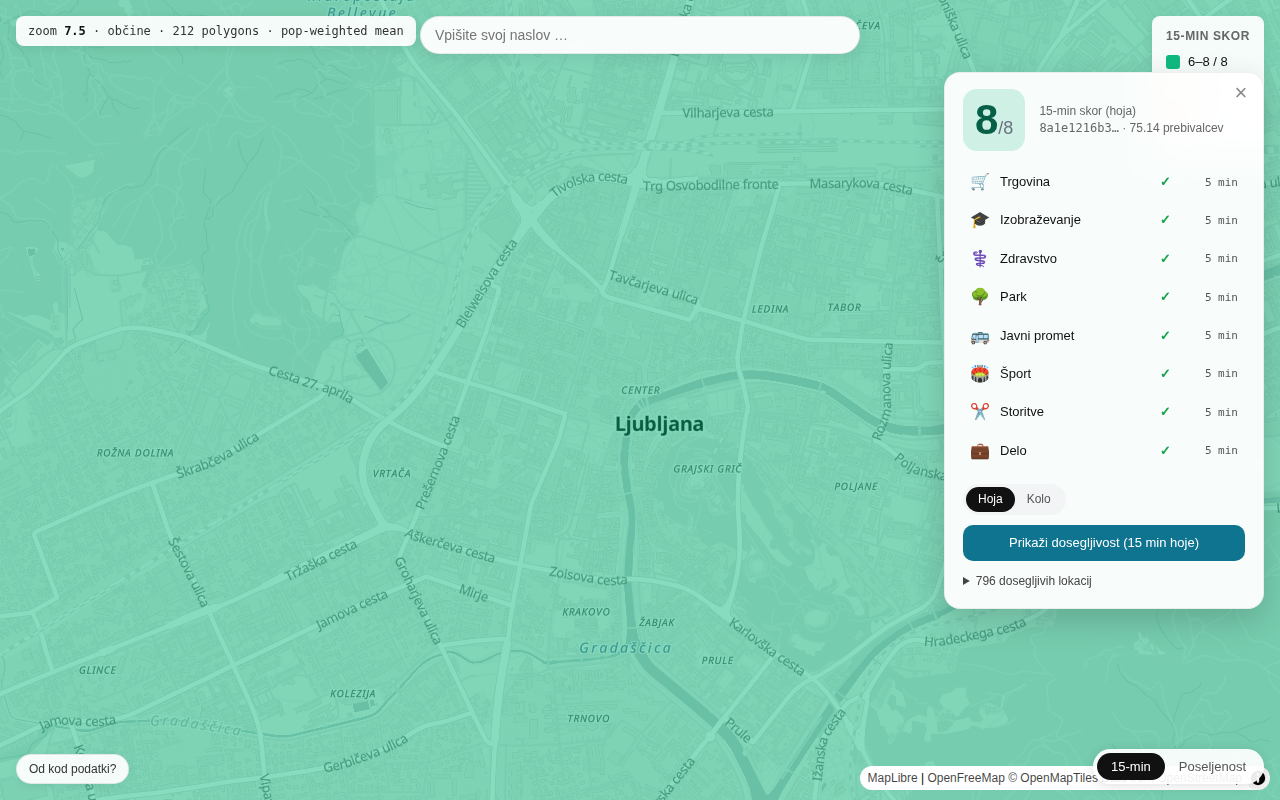
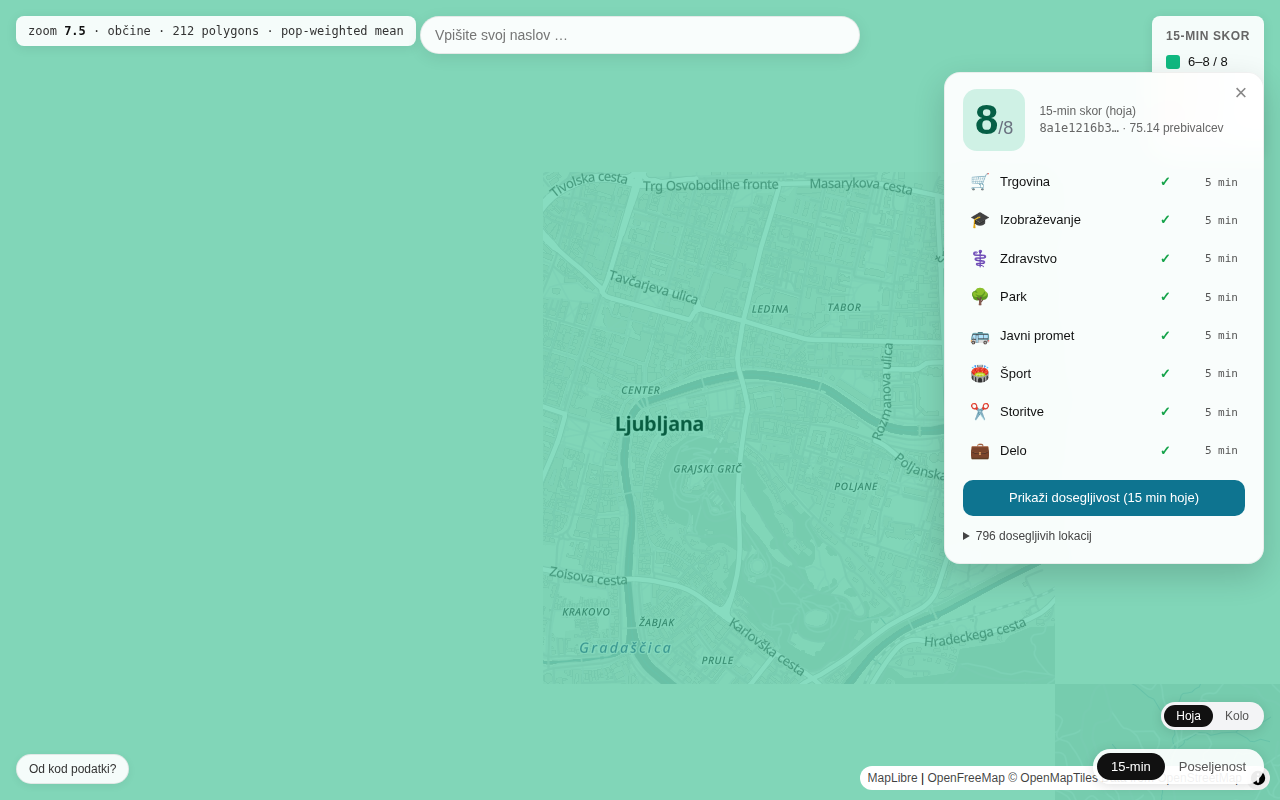
Updated fontend

diff --git a/frontend/components/Scorecard.tsx b/frontend/components/Scorecard.tsx
@@ -1,6 +1,6 @@
 "use client";
 
-import { useEffect, useState } from "react";
+import { useEffect, useMemo, useState } from "react";
 import * as h3 from "h3-js";
 import { cellScore, amenitiesForPoint, type CellScoreRow, type AmenityForPoint } from "@/lib/supabase";
 import { isochrone, route } from "@/lib/valhalla";
@@ -22,7 +22,6 @@ type Mode = "walk" | "bike";
 type Props = {
   h3id: string | null;
   mode: Mode;
-  onModeChange: (m: Mode) => void;
   onClose: () => void;
   onIsochrone: (poly: GeoJSON.Feature | null) => void;
   onRoute: (set: RouteSet | null) => void;
@@ -37,8 +36,39 @@ const EMPTY_AMENITIES: AmenityByMode = { walk: [], bike: [] };
 /** Cap on simultaneous routes per category click. */
 const MAX_PATHS_PER_CATEGORY = 25;
 
+// Server returns amenities whose own iso polygon contains the click point
+// ("amenities for which the user is reachable"). On a symmetric pedestrian
+// graph that's nearly equivalent to "amenities the user can reach"; on the
+// bicycle graph (one-way streets, slope-adjusted speed) the two diverge at
+// the polygon edges. Clip the visible set to the user-centered iso so what's
+// rendered matches the polygon the user sees. Holes are not handled —
+// Valhalla pedestrian/bike isos don't currently emit interior rings.
+function pointInRing(lng: number, lat: number, ring: number[][]): boolean {
+  let inside = false;
+  for (let i = 0, j = ring.length - 1; i < ring.length; j = i++) {
+    const [xi, yi] = ring[i];
+    const [xj, yj] = ring[j];
+    const intersect =
+      (yi > lat) !== (yj > lat) &&
+      lng < ((xj - xi) * (lat - yi)) / (yj - yi) + xi;
+    if (intersect) inside = !inside;
+  }
+  return inside;
+}
+
+function pointInFeature(lng: number, lat: number, f: GeoJSON.Feature): boolean {
+  const g = f.geometry;
+  if (g.type === "Polygon") {
+    return pointInRing(lng, lat, g.coordinates[0]);
+  }
+  if (g.type === "MultiPolygon") {
+    return g.coordinates.some((poly) => pointInRing(lng, lat, poly[0]));
+  }
+  return false;
+}
+
 export default function Scorecard({
-  h3id, mode, onModeChange, onClose, onIsochrone, onRoute, onAmenities,
+  h3id, mode, onClose, onIsochrone, onRoute, onAmenities,
 }: Props) {
   const [cell, setCell] = useState<CellScoreRow | null>(null);
   const [amenities, setAmenities] = useState<AmenityByMode>(EMPTY_AMENITIES);
@@ -102,11 +132,23 @@ export default function Scorecard({
     // eslint-disable-next-line react-hooks/exhaustive-deps
   }, [h3id]);
 
+  // Filter both amenity sets to the user-centered iso polygon so the dots,
+  // the <details> list, and the routes drawn on category-click stay in sync
+  // with what the polygon visually says is "reachable in 15 min".
+  const visibleAmenities = useMemo<AmenityByMode>(() => {
+    const filterOne = (set: AmenityForPoint[], iso: GeoJSON.Feature | null) =>
+      iso ? set.filter((a) => pointInFeature(a.lng, a.lat, iso)) : set;
+    return {
+      walk: filterOne(amenities.walk, isos.walk),
+      bike: filterOne(amenities.bike, isos.bike),
+    };
+  }, [amenities, isos]);
+
   // Mode toggle: re-publish active polygon + amenities + re-fetch active route.
   useEffect(() => {
     if (!h3id) return;
     onIsochrone(isoVisible ? isos[mode] : null);
-    onAmenities(isoVisible ? amenities[mode] : null);
+    onAmenities(isoVisible ? visibleAmenities[mode] : null);
     if (activeCat) void fetchRoutesForCategory(activeCat);
     // eslint-disable-next-line react-hooks/exhaustive-deps
   }, [mode]);
@@ -114,9 +156,9 @@ export default function Scorecard({
   // Whenever isos / visibility / amenity sets land, sync to parent.
   useEffect(() => {
     onIsochrone(isoVisible ? isos[mode] : null);
-    onAmenities(isoVisible ? amenities[mode] : null);
+    onAmenities(isoVisible ? visibleAmenities[mode] : null);
     // eslint-disable-next-line react-hooks/exhaustive-deps
-  }, [isos, isoVisible, amenities]);
+  }, [isos, isoVisible, visibleAmenities]);
 
   const toggleIsochrones = async () => {
     if (!h3id) return;
@@ -144,7 +186,7 @@ export default function Scorecard({
 
   const fetchRoutesForCategory = async (cat: CategoryId) => {
     if (!h3id) return;
-    const activeAmenities = amenities[mode];
+    const activeAmenities = visibleAmenities[mode];
     if (activeAmenities.length === 0) return;
     const targets = activeAmenities.filter((a) => a.category === cat).slice(0, MAX_PATHS_PER_CATEGORY);
     if (targets.length === 0) return;
@@ -201,7 +243,7 @@ export default function Scorecard({
       : `Prikaži dosegljivost ${isoLabel}`;
   const displayScore = cell ? (mode === "bike" ? cell.bike_score : cell.walk_score) : 0;
   const displayBucket = bucketFor(displayScore);
-  const activeAmenities = amenities[mode];
+  const activeAmenities = visibleAmenities[mode];
 
   return (
     <aside className="scorecard" role="dialog" aria-label="Skor celice">
@@ -253,25 +295,6 @@ export default function Scorecard({
                 </button>
               );
             })}
-          </div>
-
-          <div className="mode-toggle" role="group" aria-label="Način">
-            <button
-              type="button"
-              className={mode === "walk" ? "active" : ""}
-              onClick={() => onModeChange("walk")}
-              aria-pressed={mode === "walk"}
-            >
-              Hoja
-            </button>
-            <button
-              type="button"
-              className={mode === "bike" ? "active" : ""}
-              onClick={() => onModeChange("bike")}
-              aria-pressed={mode === "bike"}
-            >
-              Kolo
-            </button>
           </div>
 
           <button

diff --git a/frontend/components/Map.tsx b/frontend/components/Map.tsx
@@ -9,15 +9,16 @@ import { GeoJsonLayer, PathLayer, TextLayer, ScatterplotLayer } from "@deck.gl/l
 import { HeatmapLayer } from "@deck.gl/aggregation-layers";
 import { H3HexagonLayer } from "@deck.gl/geo-layers";
 import * as h3 from "h3-js";
-import Scorecard, { type RouteSet } from "@/components/Scorecard";
+import Scorecard, { type RouteSet, type RoutePath } from "@/components/Scorecard";
 import AddressSearch from "@/components/AddressSearch";
 import IzvorPodatkov from "@/components/IzvorPodatkov";
 import { categoryById } from "@/lib/categories";
 import type { AmenityForPoint } from "@/lib/supabase";
 
-// All category paths use this single contrast color: slate-900 reads cleanly
-// on every score-bucket fill (green / yellow / orange / red at α 128).
-const PATH_COLOR: [number, number, number, number] = [15, 23, 42, 240]; // #0f172a
+// Path color is derived per-render from the active category (see layers effect).
+// α 0.6 (153/255) keeps the path readable while letting the basemap show through.
+const PATH_ALPHA = 153;
+const FALLBACK_RGB: [number, number, number] = [120, 120, 120];
 const DOT_HALO: [number, number, number, number] = [255, 255, 255, 230];
 
 const BASEMAP_STYLE = "https://tiles.openfreemap.org/styles/positron";
@@ -406,12 +407,14 @@ export default function SloveniaMap() {
     }
 
     if (routeSet && routeSet.paths.length > 0) {
+      const catRgb = categoryById(routeSet.categoryId)?.color ?? FALLBACK_RGB;
+      const PATH_RGBA: [number, number, number, number] = [catRgb[0], catRgb[1], catRgb[2], PATH_ALPHA];
       layers.push(
         new PathLayer<{ path: [number, number][] }>({
           id: "routes-to-amenities",
           data: routeSet.paths.map((p) => ({ path: p.shape })),
           getPath: (d) => d.path,
-          getColor: PATH_COLOR,
+          getColor: PATH_RGBA,
           getWidth: 4,
           widthUnits: "pixels",
           widthMinPixels: 3,
@@ -441,6 +444,29 @@ export default function SloveniaMap() {
           lineWidthMinPixels: 1.5,
           pickable: true,
           onHover: ({ object }) => setHoveredAmenity(object ?? null),
+        }),
+      );
+    }
+
+    // Larger same-color markers at each active-category path's destination,
+    // rendered above amenity-dots so the visual relationship "this path leads
+    // to this dot" is unambiguous. Not pickable — hover still falls through
+    // to the underlying amenity-dots layer for the name label.
+    if (routeSet && routeSet.paths.length > 0) {
+      const catRgb = categoryById(routeSet.categoryId)?.color ?? FALLBACK_RGB;
+      layers.push(
+        new ScatterplotLayer<RoutePath["end"]>({
+          id: "path-endpoints",
+          data: routeSet.paths.map((p) => p.end),
+          getPosition: (d) => [d.lng, d.lat],
+          getFillColor: [catRgb[0], catRgb[1], catRgb[2], 240],
+          getRadius: 9,
+          radiusUnits: "pixels",
+          radiusMinPixels: 7,
+          stroked: true,
+          getLineColor: [255, 255, 255, 240],
+          lineWidthMinPixels: 2,
+          pickable: false,
         }),
       );
     }
@@ -534,6 +560,27 @@ export default function SloveniaMap() {
         </div>
       )}
 
+      {view === "15min" && (
+        <div className="mode-toggle mode-toggle-global" role="group" aria-label="Način">
+          <button
+            type="button"
+            className={mode === "walk" ? "active" : ""}
+            onClick={() => setMode("walk")}
+            aria-pressed={mode === "walk"}
+          >
+            Hoja
+          </button>
+          <button
+            type="button"
+            className={mode === "bike" ? "active" : ""}
+            onClick={() => setMode("bike")}
+            aria-pressed={mode === "bike"}
+          >
+            Kolo
+          </button>
+        </div>
+      )}
+
       <div className="view-switch" role="group" aria-label="Pogled">
         <button
           type="button"
@@ -556,7 +603,6 @@ export default function SloveniaMap() {
       <Scorecard
         h3id={selectedH3}
         mode={mode}
-        onModeChange={setMode}
         onClose={() => {
           setSelectedH3(null);
           setHoveredAmenity(null);

diff --git a/frontend/app/globals.css b/frontend/app/globals.css
@@ -144,6 +144,24 @@ body {
   font-size: 13px;
 }
 
+/* Global Hoja/Kolo toggle — stacked above .view-switch, only in 15-min view. */
+.mode-toggle-global {
+  position: absolute;
+  right: 16px;
+  bottom: 60px;
+  background: rgba(255, 255, 255, 0.92);
+  padding: 4px;
+  box-shadow: 0 2px 12px rgba(0, 0, 0, 0.12);
+  z-index: 10;
+  font-size: 13px;
+  margin: 0;
+}
+
+.mode-toggle-global button {
+  padding: 6px 14px;
+  font-size: 13px;
+}
+
 .view-switch button {
   appearance: none;
   border: none;